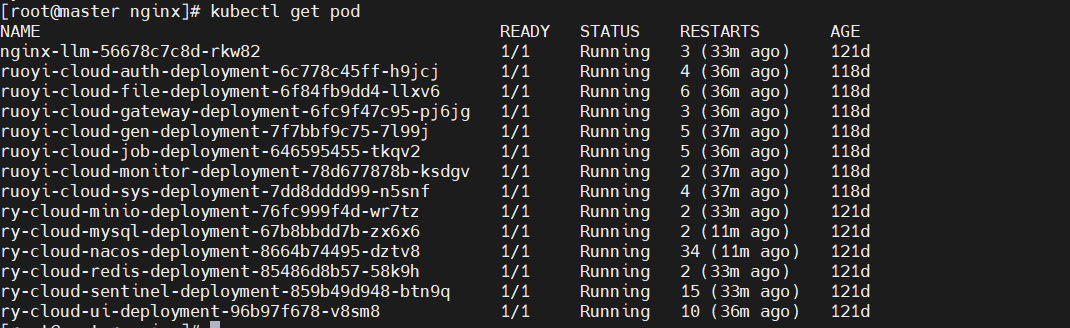
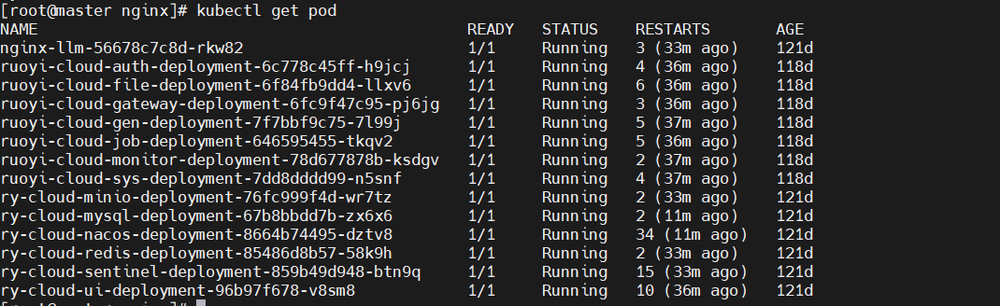
README: 开头补部署效果截图

diff --git a/README.md b/README.md
@@ -8,6 +8,22 @@
 
 ---
 
+## 先看效果
+
+链路跑通之后，微服务加中间件一共 14 个 Pod 全部 Running：
+
+![Pod 运行状态](images/image-20260729035143502.png)
+
+业务镜像按模块分别构建，每个服务在 Harbor 上有独立仓库和版本 tag，回滚就是换 tag：
+
+![Harbor 镜像列表](images/image-20260729033804580.png)
+
+若依后台从流水线发布出来之后的实际页面：
+
+![若依后台登录页](images/image-20260729035226954.png)
+
+---
+
 ## 一、这个仓库解决什么问题
 
 微服务架构下（网关 + 认证 + 系统 + 业务模块），手工发布有几个绕不开的麻烦：
